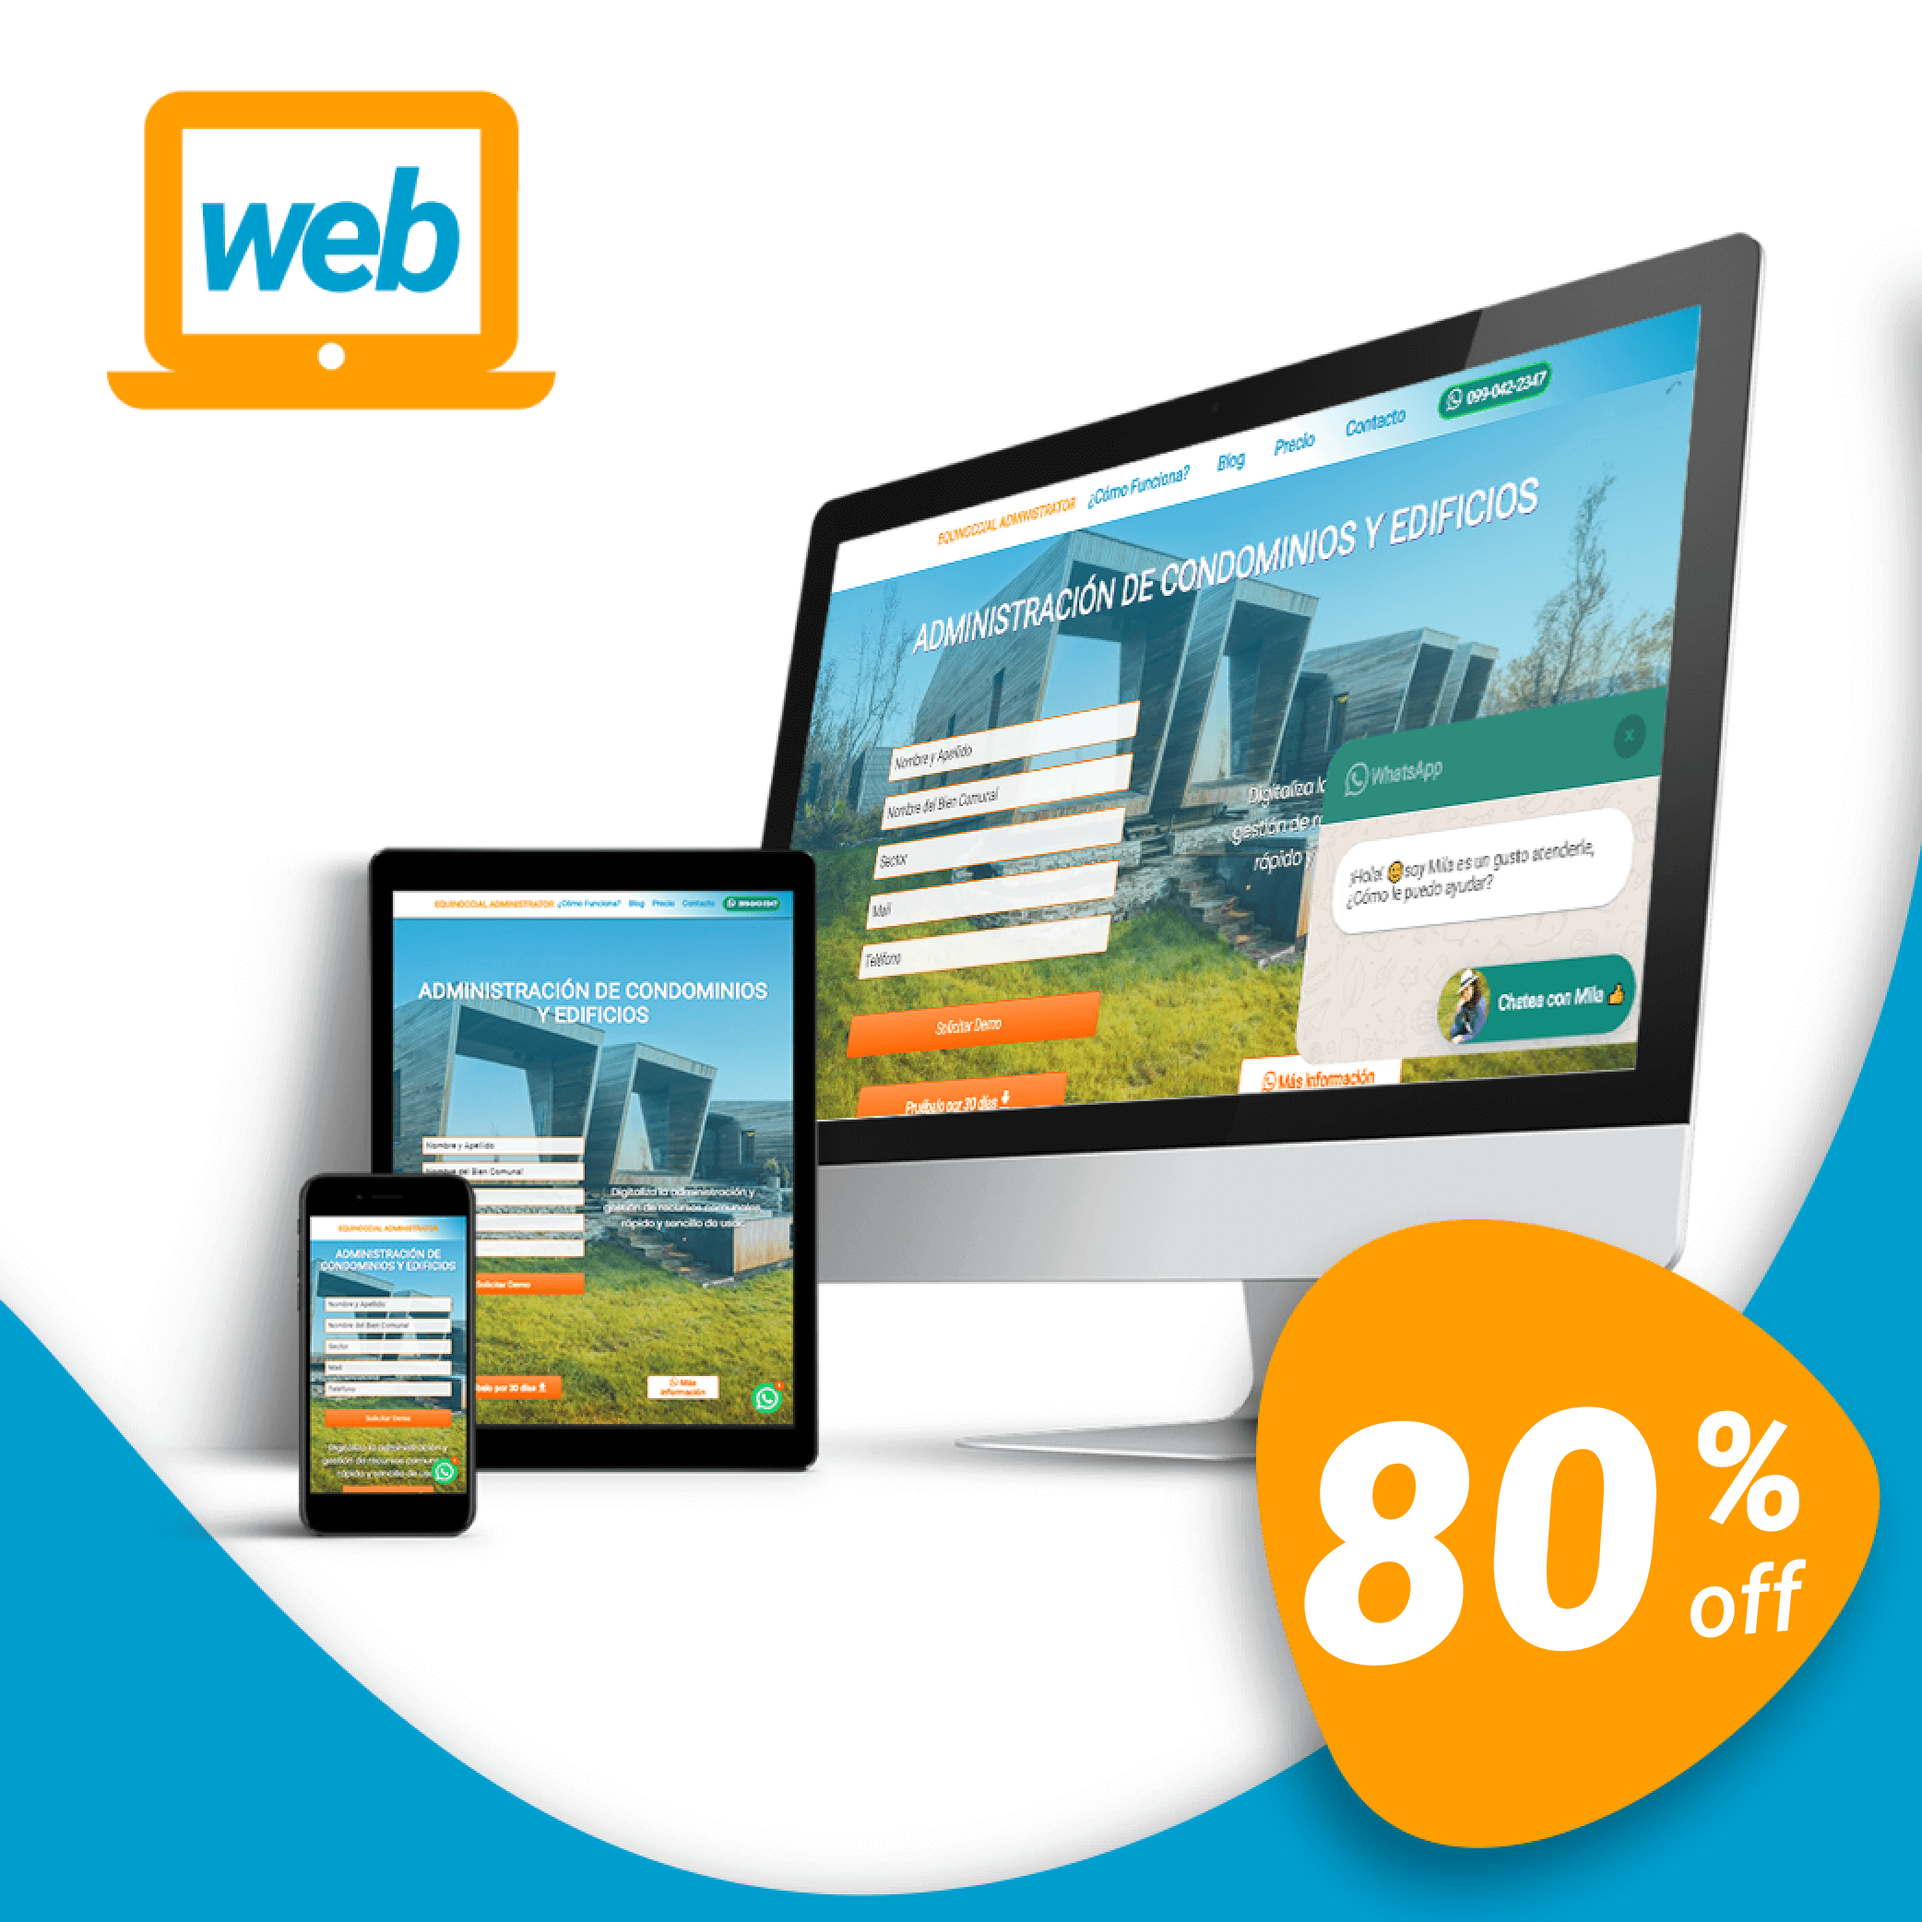
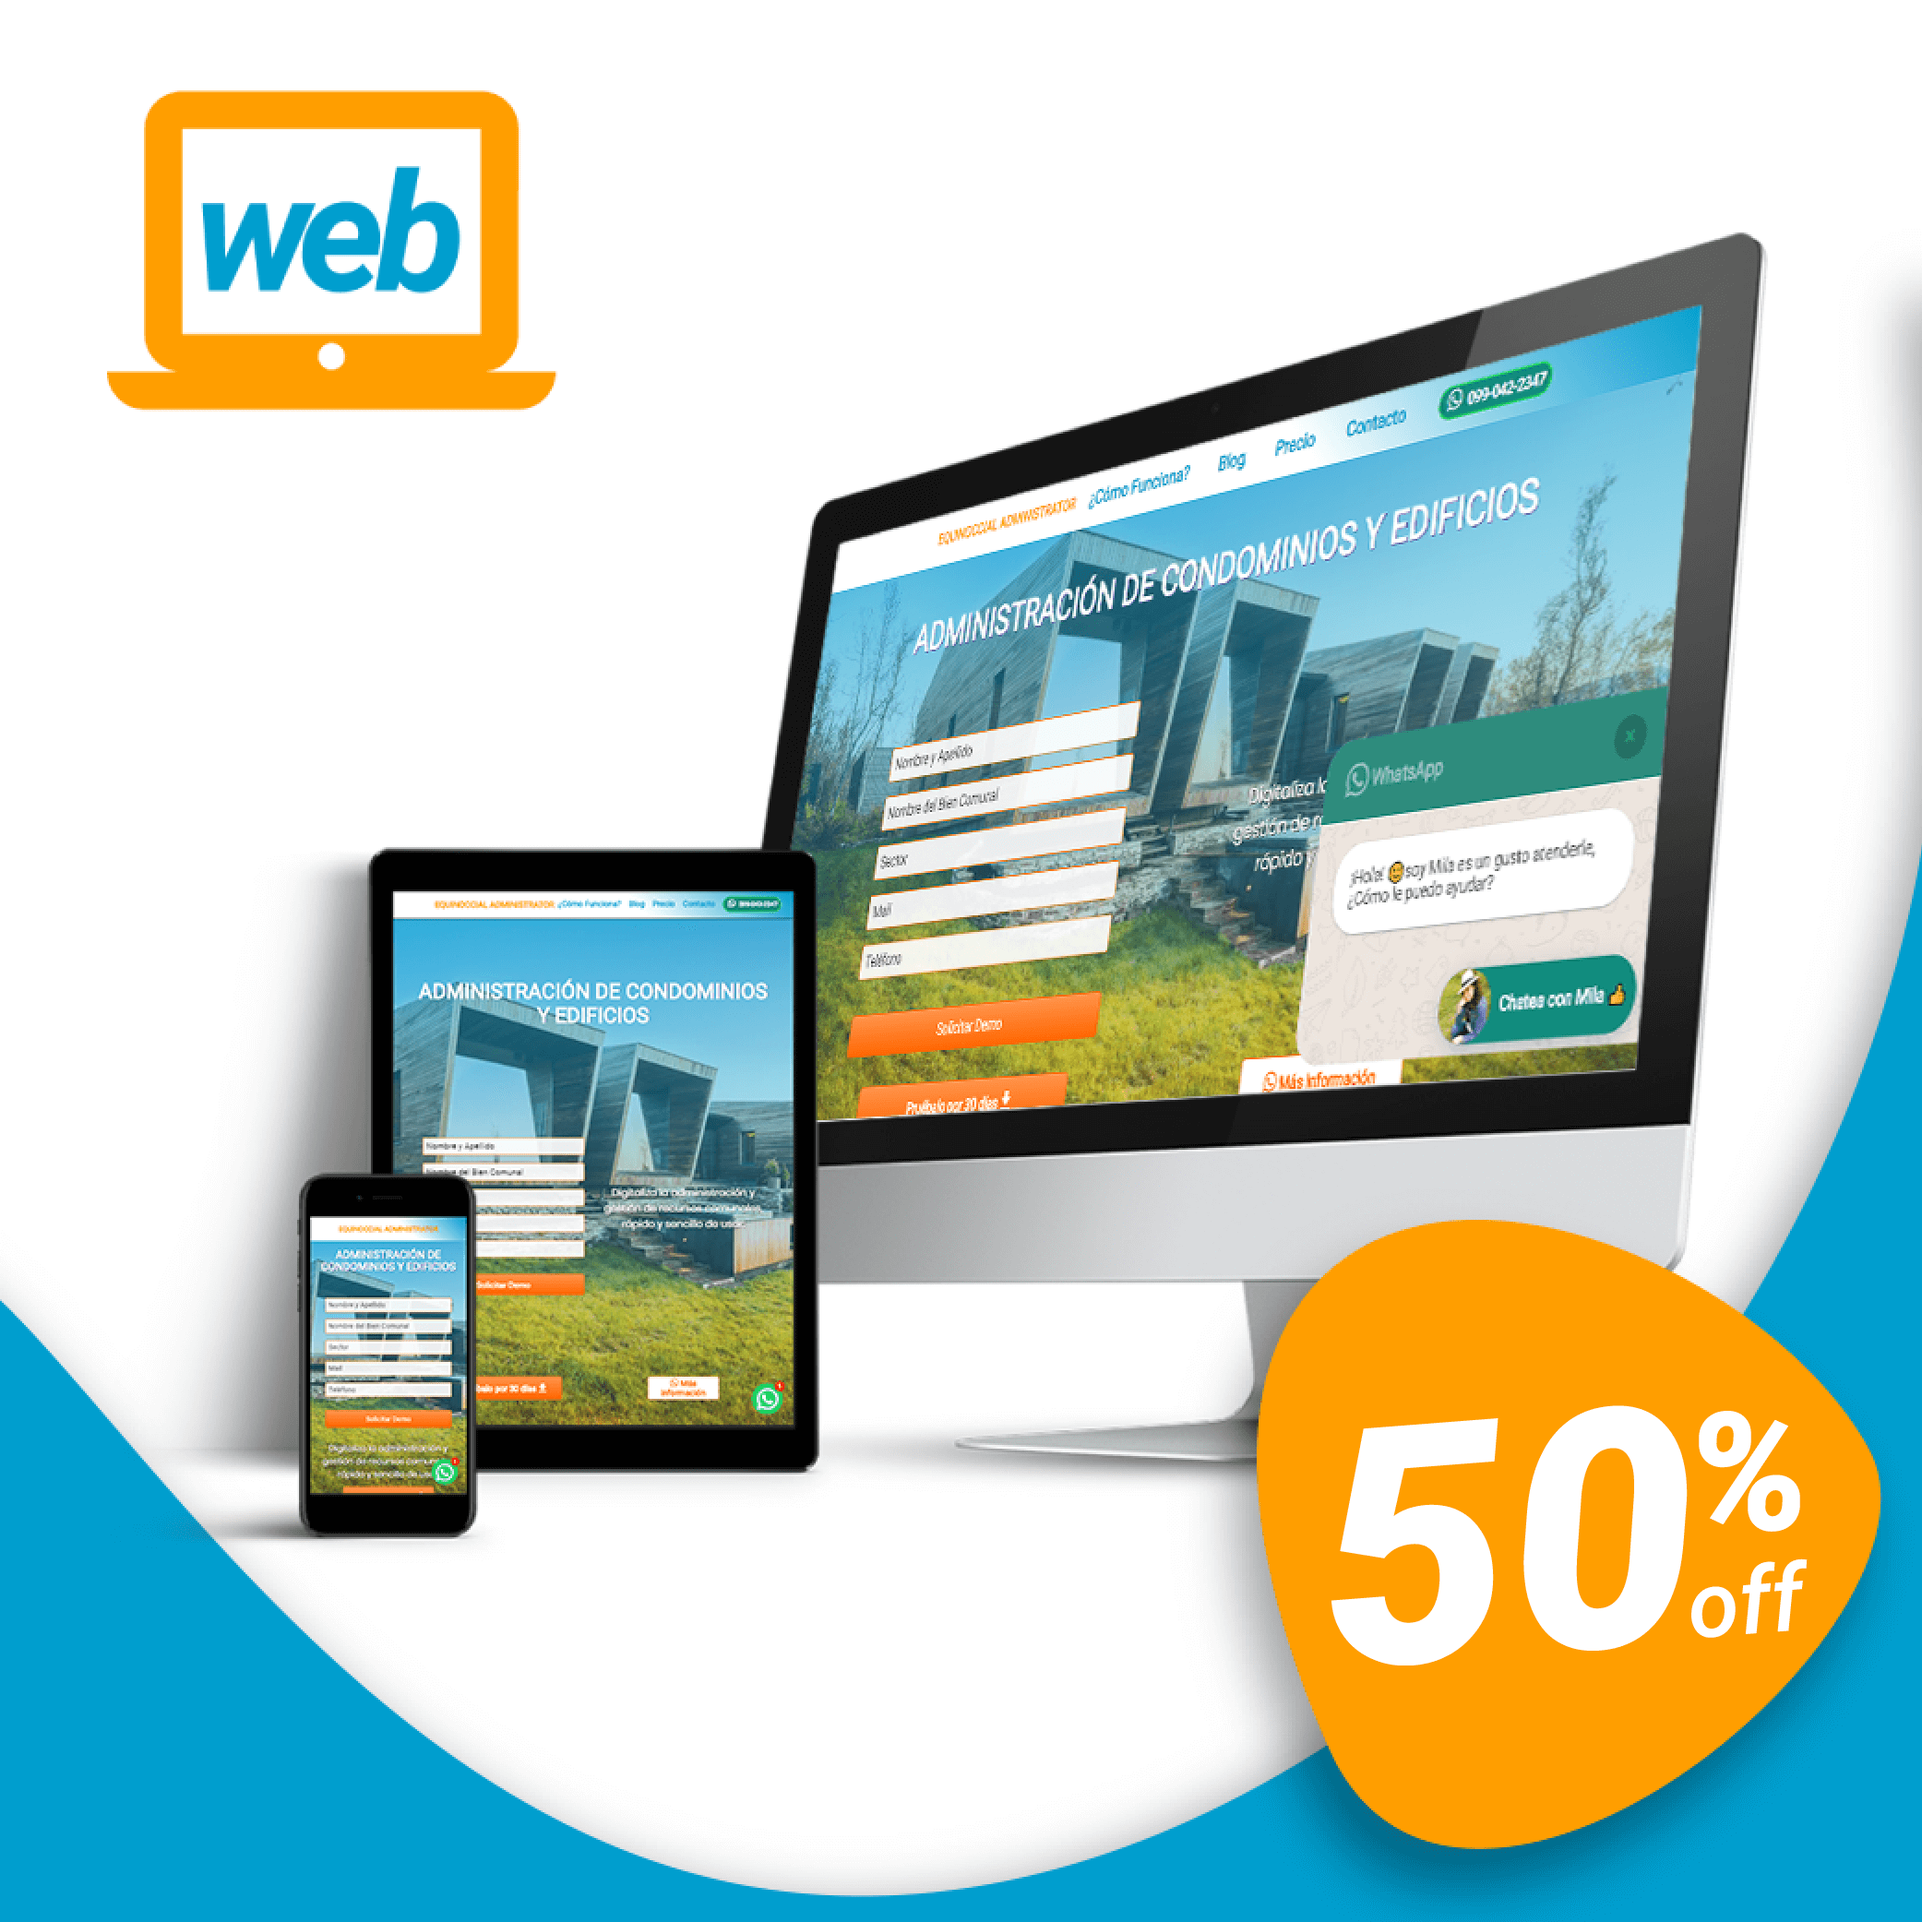
dfkjsdjfni43u583u48hdsudasdasd

diff --git a/index.html b/index.html
@@ -168,7 +168,7 @@
                 <h1>Páginas Web Quito</h1>
                  <span class="spanfrase">Para Emprendedores y PYMES</span>
                 <span> Digitaliza tu negocio y <strong>vende</strong> con tu Página Web <br><strong>+ Redes Sociales</strong></span> <br>
-                <a class="tripimg" href="#modal">Solicitar Promo 👉80%OFF</a>
+                <a class="tripimg" href="#modal">Solicitar Promo 👉50%OFF</a>
 
             </div><!--end nav frasebtn -->
 
@@ -571,7 +571,7 @@
 
         <!-- <div class="planes"> -->
             <div class="servi">
-            <span id="precios" class="servispan1">Precios |</span><span class="servispan2"> PROMO COVID-19 🦠 por tiempo limitado</span>
+            <span id="precios" class="servispan1">Precios |</span><span class="servispan2"> PROMO Día del Padre 🎉🧔 hasta el 21 de junio 2020</span>
             
             
             </div>
@@ -615,8 +615,8 @@
                                 </div>
                                 
                                 <div id="contenidofooter">
-                                    <h3><sup>$</sup><s>497,00</s> <span>dto 80%</span></h3>
-                                    <h2> 99,00</h2>
+                                    <h3><sup>$</sup><s>497,00</s> <span>dto 50%</span></h3>
+                                    <h2> 248,50</h2>
                                     <p>¡Una sola vez!</p>
                                     <a href="#modal">Deseo el plan</a>
                                     <p>Por tiempo limitado.</p>
@@ -664,8 +664,8 @@
                             </div>
                             
                             <div id="contenidofooterx2">
-                                <h3><sup>$</sup><s>699,00</s> <span>dto 80%</span></h3>
-                                    <h2> 140,00</h2>
+                                <h3><sup>$</sup><s>699,00</s> <span>dto 50%</span></h3>
+                                    <h2> 349,50</h2>
                                     <p>¡Una sola vez!</p>
                                     <a href="#modal">Deseo el plan</a>
                                     <p>Por tiempo limitado.</p>
@@ -711,8 +711,8 @@
                             </div>
                             
                             <div id="contenidofooter">
-                                <h3><sup>$</sup><s>999,00</s> <span>dto 80%</span></h3>
-                                <h2> 200,00</h2>
+                                <h3><sup>$</sup><s>999,00</s> <span>dto 50%</span></h3>
+                                <h2> 499,50</h2>
                                 <p>¡Una sola vez!</p>
                                 <a href="#modal">Deseo el plan</a>
                                 <p>Por tiempo limitado.</p>

diff --git a/style.css b/style.css
@@ -1308,14 +1308,13 @@ input, textarea {
 select{
 	width: 100%;
     margin-bottom: 15px;
-    color: #999;
+    color: white;
     border: none;
     padding: 7px;
     font-size: 1em;
     height: 50px;
-    background: rgba(255,255,255,.3);
-    border-bottom: rgba(0,0,0,.2);
-   -webkit-appearance: none;
+    background: rgba(0,0,0,.2);
+    -webkit-appearance: none;
 }
 
 option{
